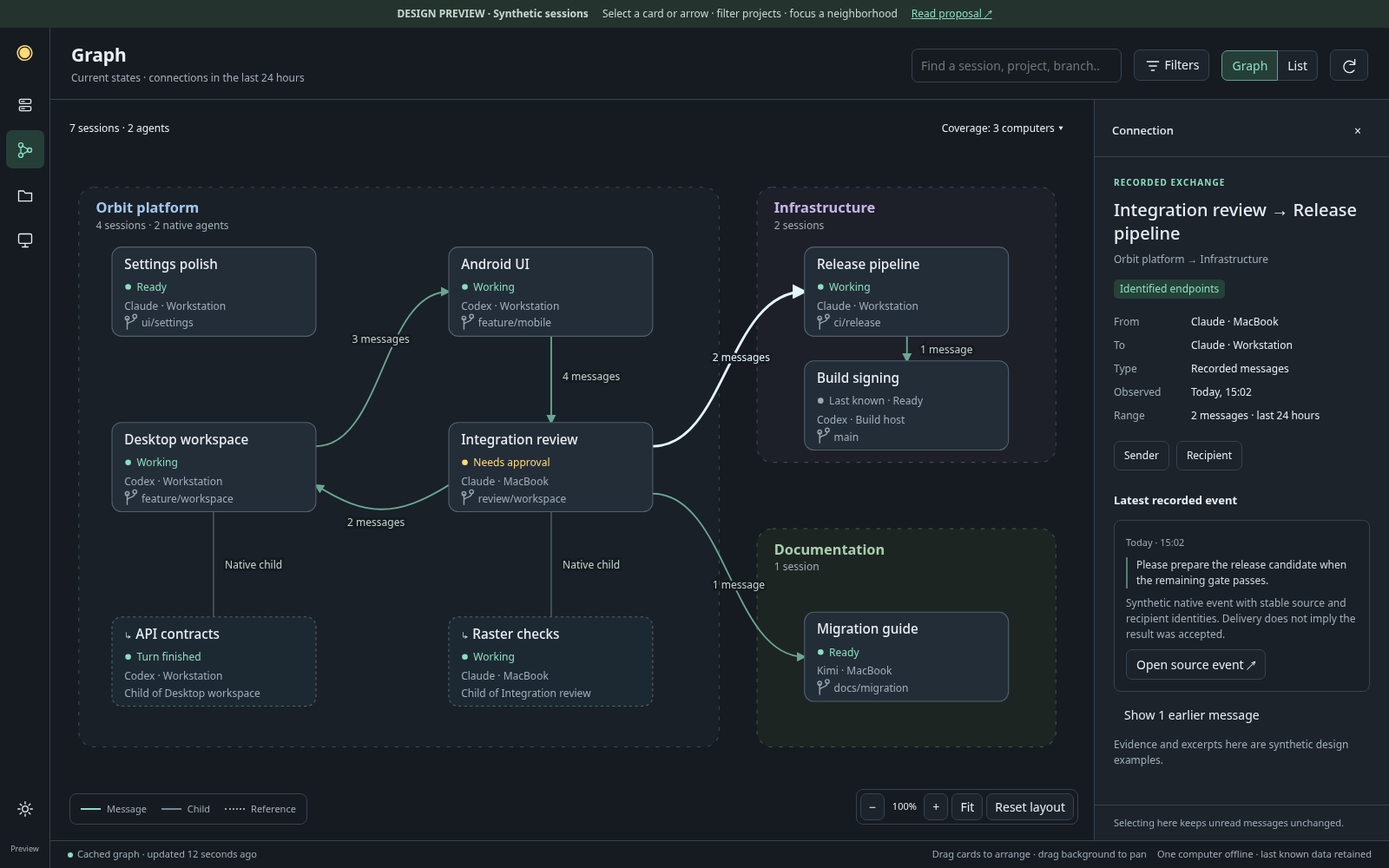
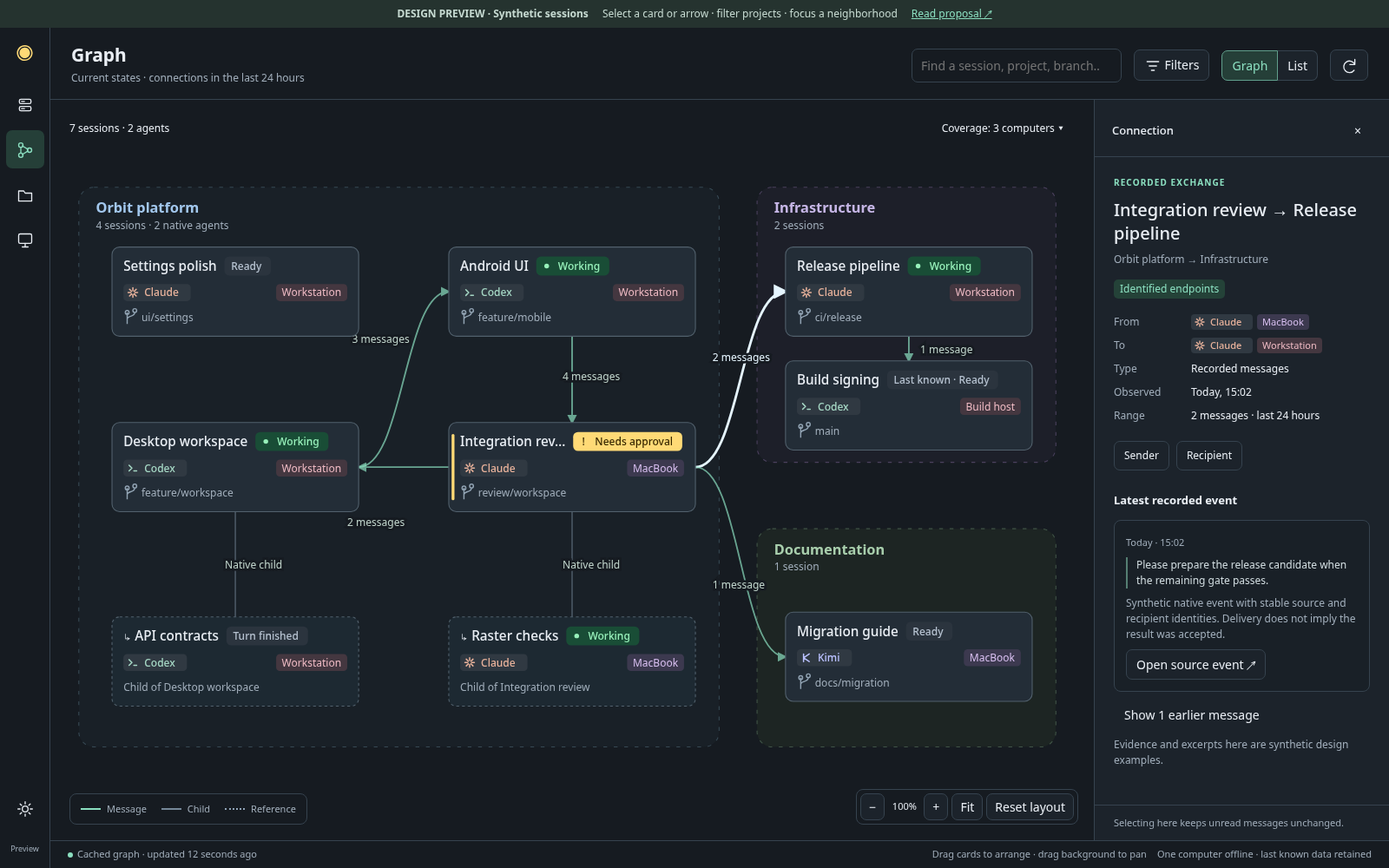
Align graph preview badges with the Sessions visual language

diff --git a/design/session-graph/index.html b/design/session-graph/index.html
@@ -12,6 +12,13 @@
 .inspector{width:340px;flex-shrink:0;border-left:1px solid var(--stroke);background:var(--panel);display:flex;flex-direction:column}.inspector-head{padding:18px 20px 12px;border-bottom:1px solid var(--stroke);display:flex;gap:8px;align-items:center}.inspector-head strong{font-size:13px;font-weight:500}.inspector-body{padding:22px;overflow:auto;flex:1}.eyebrow{font-size:10px;letter-spacing:.11em;color:var(--mint);font-weight:650;text-transform:uppercase}.inspector h2{font-size:20px;line-height:1.35;margin:10px 0 5px;font-weight:550;overflow-wrap:anywhere}.inspector h3{font-size:13px;font-weight:600;margin:25px 0 12px}.inspector p{margin:8px 0 13px}.identity{margin:18px 0 20px;display:grid;grid-template-columns:80px 1fr;gap:9px;font-size:12px}.identity dt{color:var(--muted)}.identity dd{margin:0;overflow-wrap:anywhere}.actions{display:flex;gap:8px;flex-wrap:wrap}.actions button{font-size:12px}.evidence{border:1px solid var(--stroke);border-radius:8px;padding:13px;margin:9px 0;background:#192027}.evidence time{color:var(--muted);font-size:11px}.evidence p{font-size:12px;margin:8px 0}.evidence .quote{border-left:2px solid #557f73;padding-left:10px;color:#d0dbdf}.relation{display:block;text-align:left;width:100%;margin:6px 0;font-size:12px}.relation small{display:block;color:var(--muted);margin-top:3px}.inspector-footer{padding:12px 22px;border-top:1px solid var(--stroke);color:var(--muted);font-size:11px}.statusbar{min-height:32px;border-top:1px solid var(--stroke);padding:6px 20px;display:flex;align-items:center;gap:12px;font-size:11px;color:var(--muted)}.status-dot{width:6px;height:6px;border-radius:50%;display:inline-block;background:var(--mint);margin-right:5px}.toast{position:absolute;bottom:78px;left:50%;transform:translateX(-50%);z-index:5;padding:13px 20px;border:1px solid #7bac99;border-radius:10px;background:#263c33;max-width:90%;box-shadow:0 8px 40px #0006;font-size:13px}.listing{position:absolute;inset:54px 22px 76px;overflow:auto;background:var(--bg);border:1px solid var(--stroke);border-radius:9px}.listrow{display:grid;grid-template-columns:minmax(150px,1fr) 140px 100px 110px;gap:16px;text-align:left;width:100%;border-radius:0;border:0;border-bottom:1px solid var(--stroke);padding:15px}.listrow span{font-size:12px;color:var(--muted)}.listrow strong{font-weight:500}.coverage{position:absolute;top:12px;right:20px;width:310px;padding:18px;background:var(--panel);border:1px solid var(--stroke);border-radius:9px;z-index:3;box-shadow:0 10px 30px #0006}.coverage p{font-size:12px;margin:10px 0}.coverage h3{font-size:14px;margin:0 0 15px}.coverage button{margin-top:8px}.spinner{display:inline-block;width:11px;height:11px;border:2px solid #ffda7655;border-top-color:var(--amber);border-radius:50%;animation:spin 1s linear infinite;vertical-align:middle;margin-right:5px}@keyframes spin{to{transform:rotate(360deg)}}
 @media(max-width:1100px){.inspector{position:absolute;right:0;top:0;bottom:0;box-shadow:-10px 0 35px #0005;z-index:3}.header{gap:10px;padding:15px}.heading{flex:1}.heading p{max-width:300px}.search{width:190px}.legend{gap:9px}.freshness{display:none}}@media(max-width:650px){.app{grid-template-columns:48px 1fr}.rail>button{width:38px}.demo{font-size:10px;justify-content:space-between}.demo .extra{display:none}.header{padding:13px 12px}.heading p{font-size:10px}.search{width:100%;order:5}.header>.spacer{display:none}.inspector{width:min(340px,100%)}.statusbar{padding:6px 10px;flex-wrap:wrap}.statusbar .extra{display:none}.canvas-top{left:12px;right:12px}.legend{left:10px;bottom:65px}.zoom{right:10px;bottom:12px}.listrow{grid-template-columns:1fr 85px;gap:5px;padding:12px}.filters{padding:12px;gap:12px}.filters label{width:100%;justify-content:space-between}.filterchips{padding:6px 12px}}@media(prefers-reduced-motion:reduce){.spinner{animation:none}}
 </style>
+<style>
+/* Mirror the existing native badge components; the Qt graph reuses their painters. */
+.session-badges{display:flex;align-items:center;gap:8px;flex-wrap:wrap}.session-badges svg{flex:none;overflow:visible}
+.identity-label text{font:11px system-ui,sans-serif}.identity-label.provider text,.identity-label.state text{font-weight:500}
+.node.selected .body{stroke:#8295a9;fill:#303b47}.listrow{grid-template-columns:minmax(170px,1fr) 140px auto;align-items:center}.listrow .session-badges{grid-column:1/-1}.inspector .session-badges{margin:12px 0 16px}.identity .session-badges{margin:0;gap:5px}
+@media(max-width:650px){.listrow{grid-template-columns:1fr}.listrow .session-badges{grid-column:auto}}
+</style>
 </head>
 <body>
 <svg width="0" height="0" style="position:absolute" aria-hidden="true"><defs>
@@ -57,9 +64,9 @@ const nodes=[
  {id:'review',name:'Integration review',project:'orbit',machine:'MacBook',provider:'Claude',branch:'review/workspace',state:'attention',status:'Needs approval',x:420,y:330,description:'Review the combined changes. A recorded native permission request is pending.'},
  {id:'api',name:'API contracts',project:'orbit',machine:'Workstation',provider:'Codex',branch:'Child of Desktop workspace',state:'ready',status:'Turn finished',x:65,y:535,child:true,description:'A native child with a recorded completed turn. Task completion is not inferred.'},
  {id:'raster',name:'Raster checks',project:'orbit',machine:'MacBook',provider:'Claude',branch:'Child of Integration review',state:'working',status:'Working',x:420,y:535,child:true,description:'Verify large text and keyboard navigation in a private fixture.'},
- {id:'release',name:'Release pipeline',project:'infra',machine:'Workstation',provider:'Claude',branch:'ci/release',state:'working',status:'Working',x:795,y:145,description:'Coordinate the release jobs using the exact reviewed source candidate.'},
- {id:'signing',name:'Build signing',project:'infra',machine:'Build host',provider:'Codex',branch:'main',state:'offline',status:'Last known · Ready',x:795,y:265,description:'This computer is offline. Its last-known session and relationships are retained.'},
- {id:'guide',name:'Migration guide',project:'docs',machine:'MacBook',provider:'Kimi',branch:'docs/migration',state:'ready',status:'Ready',x:795,y:530,description:'Document the delivered interface and migration steps.'}
+ {id:'release',name:'Release pipeline',project:'infra',machine:'Workstation',provider:'Claude',branch:'ci/release',state:'working',status:'Working',x:775,y:145,description:'Coordinate the release jobs using the exact reviewed source candidate.'},
+ {id:'signing',name:'Build signing',project:'infra',machine:'Build host',provider:'Codex',branch:'main',state:'offline',status:'Last known · Ready',x:775,y:265,description:'This computer is offline. Its last-known session and relationships are retained.'},
+ {id:'guide',name:'Migration guide',project:'docs',machine:'MacBook',provider:'Kimi',branch:'docs/migration',state:'ready',status:'Ready',x:775,y:530,description:'Document the delivered interface and migration steps.'}
 ];
 const edges=[
  {id:'e1',from:'main',to:'android',type:'message',count:3,label:'3 messages',note:'Implementation scope and integration constraints.',time:'14:42',points:'M 280 355 C 350 355 350 192 420 192',labelX:318,labelY:246},
@@ -87,10 +94,38 @@ function computeVisible(){
  if(focus){const near=new Set([focus]);edges.filter(e=>e.type!=='reference'||$('references').checked).forEach(e=>{if(e.from===focus)near.add(e.to);if(e.to===focus)near.add(e.from);});visible=new Set([...visible].filter(id=>near.has(id)));}
  return base;
 }
+// Same dark-theme colors, glyphs and dimensions as IdentityBadge/SessionStatusBadge.
+const measure=document.createElement('canvas').getContext('2d');
+function textWidth(text,size=11,weight=400){measure.font=`${weight} ${size}px system-ui`;return measure.measureText(text).width;}
+function clipped(text,width,size=11,weight=400){if(textWidth(text,size,weight)<=width)return text;while(text.length&&textWidth(text+'…',size,weight)>width)text=text.slice(0,-1);return text+'…';}
+function machinePalette(name){
+ let hash=2166136261;for(const byte of new TextEncoder().encode(name))hash=Math.imul(hash^byte,16777619)>>>0;
+ const color=['#5fbfa5','#8ea9f4','#c098e6','#e7ae66','#e38f9e','#75bfcf','#acc577'][(((hash>>>16)^hash)>>>0)%7];
+ const rgb=(color||'#5fbfa5').match(/[a-f0-9]{2}/gi).map(x=>parseInt(x,16));
+ const blend=(other,k)=>'#'+rgb.map((v,i)=>Math.round(v*(1-k)+other[i]*k).toString(16).padStart(2,'0')).join('');
+ return {fg:blend([255,255,255],.38),bg:blend([23,30,37],.78)};
+}
+function badge(kind,value,state='ready'){
+ const special=kind==='state'&&['working','attention'].includes(state),inset=kind==='provider'?22:special?23:kind==='machine'?6:7;
+ const width=Math.ceil(textWidth(value,11,kind==='machine'?400:500))+(kind==='provider'?34:kind==='machine'?12:16+(special?16:0));
+ const height=kind==='state'?20:18;
+ let colors=kind==='machine'?machinePalette(value):kind==='provider'?{bg:'#303942',fg:value==='Claude'?'#e8b29b':value==='Kimi'?'#bac1ff':'#a6d8c5'}:
+  state==='working'?{bg:'#194d36',fg:'#97f0ba'}:state==='attention'?{bg:'#ffda76',fg:'#392900'}:{bg:'#2b343e',fg:'#b6c2d0'};
+ const g=el('g',{class:`identity-label ${kind}`,'data-kind':kind,'data-width':width,'data-height':height});
+ g.append(el('rect',{width,height,rx:kind==='state'?5:4,fill:colors.bg}));
+ if(kind==='provider'){
+  const icon=el('g',{transform:`translate(10 ${height/2})`,fill:'none',stroke:colors.fg,'stroke-width':1.4,'stroke-linecap':'round','stroke-linejoin':'round'});
+  if(value==='Claude')for(let i=0;i<8;i++)icon.append(el('path',{d:'M0 2V5',transform:`rotate(${i*45})`}));
+  else icon.append(el('path',{d:value==='Kimi'?'M-3 -4V4M-3 0L3 -4M-3 0L3 4':'M-4 -3L-1 0L-4 3M1 3H4'}));
+  g.append(icon);
+ }else if(special)g.append(state==='working'?el('circle',{cx:11,cy:10,r:2.5,fill:colors.fg}):el('text',{x:11,y:14,'text-anchor':'middle',fill:colors.fg,'font-weight':700},'!'));
+ g.append(el('text',{x:inset,y:height/2+4,fill:colors.fg},value));return g;
+}
+function htmlBadge(kind,value,state){const b=badge(kind,value,state),svg=el('svg',{width:b.dataset.width,height:b.dataset.height,'aria-label':value});svg.append(b);return svg;}
+function identityRow(n,includeStatus=true){const row=plain('div','session-badges');if(includeStatus)row.append(htmlBadge('state',n.status,n.state));row.append(htmlBadge('provider',n.provider),htmlBadge('machine',n.machine));return row;}
 function pathFor(e){
  const a=byId(e.from),b=byId(e.to),pa=positions[a.id],pb=positions[b.id];
- if(a.x===pa.x&&a.y===pa.y&&b.x===pb.x&&b.y===pb.y)return e.points;
- const w=215,h=94;let sx,sy,tx,ty;
+ const w=260,h=94;let sx,sy,tx,ty;
  if(Math.abs((pb.x-pa.x))<100){sx=pa.x+w/2;sy=pa.y+(pb.y>pa.y?h:0);tx=pb.x+w/2;ty=pb.y+(pb.y>pa.y?0:h);return `M${sx} ${sy} C${sx} ${(sy+ty)/2} ${tx} ${(sy+ty)/2} ${tx} ${ty}`;}
  sx=pa.x+(pb.x>pa.x?w:0);sy=pa.y+h/2;tx=pb.x+(pb.x>pa.x?0:w);ty=pb.y+h/2;return `M${sx} ${sy} C${(sx+tx)/2} ${sy} ${(sx+tx)/2} ${ty} ${tx} ${ty}`;
 }
@@ -98,7 +133,19 @@ function render(){
  const base=computeVisible();$('nodes').replaceChildren();$('edges').replaceChildren();$('groups').replaceChildren();
  for(const g of groups){const members=nodes.filter(n=>n.project===g.id&&visible.has(n.id));if(!members.length)continue;$('groups').append(el('rect',{x:g.x,y:g.y,width:g.w,height:g.h,rx:16,class:`group ${g.id}`}));$('groups').append(el('text',{x:g.x+18,y:g.y+27,class:`group-label ${g.id}`},g.title));$('groups').append(el('text',{x:g.x+18,y:g.y+44,class:'group-meta'},`${members.filter(n=>!n.child).length} ${members.filter(n=>!n.child).length===1?'session':'sessions'}${members.some(n=>n.child)?` · ${members.filter(n=>n.child).length} native agents`:''}`));}
  for(const e of edges){if(!visible.has(e.from)||!visible.has(e.to)||(e.type==='reference'&&!$('references').checked))continue;const chosen=selected?.type==='edge'&&selected.id===e.id,d=pathFor(e);$('edges').append(el('path',{d,class:`edge ${e.type} ${chosen?'selected':''}`,'marker-end':e.type==='parent'?'':`url(#${chosen?'selectedArrow':'arrow'})`}));const hit=el('path',{d,class:'edge-hit','data-edge-id':e.id,tabindex:0,role:'button','aria-label':`${byId(e.from).name} to ${byId(e.to).name}, ${relationName(e)}, ${e.count||''}`});hit.onclick=()=>choose('edge',e.id);hit.onkeydown=k=>{if(k.key==='Enter'||k.key===' '){k.preventDefault();choose('edge',e.id);}};$('edges').append(hit);if(positions[e.from].x===byId(e.from).x&&positions[e.from].y===byId(e.from).y&&positions[e.to].x===byId(e.to).x&&positions[e.to].y===byId(e.to).y)$('edges').append(el('text',{x:e.labelX,y:e.labelY,class:`edge-label ${chosen?'selected':''}`},e.label));}
- for(const n of nodes){if(!visible.has(n.id))continue;const p=positions[n.id],g=el('g',{transform:`translate(${p.x} ${p.y})`,class:`node ${n.child?'child':''} ${selected?.type==='node'&&selected.id===n.id?'selected':''}`,tabindex:0,role:'button','aria-label':`${n.name}, ${projectName(n.project)}, ${n.machine}, ${n.status}`,'data-id':n.id});g.append(el('rect',{width:215,height:94,rx:10,class:'body'}));g.append(el('text',{x:13,y:23,class:'title'},(n.child?'↳ ':'')+n.name));g.append(el('circle',{cx:17,cy:42,r:3,fill:n.state==='attention'?'#ffda76':n.state==='offline'?'#9aabb8':'#8bdfc0'}));g.append(el('text',{x:26,y:46,class:`status ${n.state==='attention'?'amber':n.state==='offline'?'neutral':''}`},n.status));g.append(el('text',{x:13,y:66,class:'meta'},`${n.provider} · ${n.machine}`));if(!n.child)g.append(el('path',{d:'M16 75v12M16 82c0-4 8-2 8-7m-10 0a2 2 0 1 0 4 0a2 2 0 1 0-4 0m8-2a2 2 0 1 0 4 0a2 2 0 1 0-4 0',class:'branch'}));g.append(el('text',{x:n.child?13:31,y:84,class:'meta'},n.branch));g.append(el('title',{},`${n.name}\n${projectName(n.project)} · ${n.machine}\n${n.description}`));g.onclick=()=>{if(!drag?.moved)choose('node',n.id)};g.onkeydown=e=>{if(e.key==='Enter'||e.key===' '){e.preventDefault();choose('node',n.id);}};$('nodes').append(g);}
+ for(const n of nodes){
+  if(!visible.has(n.id))continue;
+  const p=positions[n.id],g=el('g',{transform:`translate(${p.x} ${p.y})`,class:`node ${n.child?'child':''} ${selected?.type==='node'&&selected.id===n.id?'selected':''}`,tabindex:0,role:'button','aria-label':`${n.name}, ${n.provider}, ${projectName(n.project)}, ${n.machine}, ${n.status}`,'data-id':n.id});
+  g.append(el('rect',{width:260,height:94,rx:8,class:'body'}));
+  const status=badge('state',n.status,n.state),statusWidth=Number(status.dataset.width),title=clipped((n.child?'↳ ':'')+n.name,236-statusWidth-8,14,550);
+  g.append(el('text',{x:12,y:25,class:'title'},title));status.setAttribute('transform',`translate(${12+textWidth(title,14,550)+8} 10)`);g.append(status);
+  const provider=badge('provider',n.provider),machine=badge('machine',n.machine);provider.setAttribute('transform','translate(12 39)');machine.setAttribute('transform',`translate(${248-Number(machine.dataset.width)} 39)`);g.append(provider,machine);
+  if(n.state==='attention')g.append(el('rect',{x:3,y:12,width:3,height:70,rx:1.5,fill:'#ffda76'}));
+  if(!n.child)g.append(el('path',{d:'M16 69v12M16 76c0-4 8-2 8-7m-10 0a2 2 0 1 0 4 0a2 2 0 1 0-4 0m8-2a2 2 0 1 0 4 0a2 2 0 1 0-4 0',class:'branch'}));
+  g.append(el('text',{x:n.child?12:31,y:78,class:'meta'},clipped(n.branch,n.child?236:217)));
+  g.append(el('title',{},`${n.name}\n${n.status} · ${n.provider}\n${projectName(n.project)} · ${n.machine}\n${n.branch}\n${n.description}`));
+  g.onclick=()=>{if(!drag?.moved)choose('node',n.id)};g.onkeydown=e=>{if(e.key==='Enter'||e.key===' '){e.preventDefault();choose('node',n.id);}};$('nodes').append(g);
+ }
  const roots=[...visible].filter(id=>!byId(id).child).length,children=visible.size-roots,outs=[...visible].filter(id=>!base.has(id)).length;$('counts').textContent=`${roots} sessions · ${children} agents${outs?` · ${outs} outside scope`:''}`;$('empty').hidden=!!visible.size;$('unfocus').hidden=!focus;
  const chips=[];if($('project').value!=='all')chips.push(projectName($('project').value));if($('state').value!=='all')chips.push($('state').selectedOptions[0].text);if($('references').checked)chips.push('References');$('filterchips').hidden=!chips.length;$('chiptext').textContent=chips.join(' · ');
  if(selected){const item=selected.type==='node'?null:edges.find(e=>e.id===selected.id);const inside=selected.type==='node'?visible.has(selected.id):(visible.has(item.from)&&visible.has(item.to)&&(item.type!=='reference'||$('references').checked));document.querySelector('.inspector-footer').textContent=inside?'Selecting here keeps unread messages unchanged.':'This selection is outside the current filter. Clear filters to reveal it.';}renderList();applyCamera();
@@ -108,14 +155,14 @@ function action(text,callback,cls=''){const b=plain('button',cls,text);b.onclick
 function renderInspector(){
  const body=$('inspectorBody');body.replaceChildren();if(!selected)return;
  const title=(eyebrow,name,subtitle)=>{body.append(plain('div','eyebrow',eyebrow),plain('h2','',name),plain('p','muted small',subtitle));};
- const details=pairs=>{const dl=plain('dl','identity');for(const [k,v]of pairs){dl.append(plain('dt','',k),plain('dd','',v));}body.append(dl);};
+ const details=pairs=>{const dl=plain('dl','identity');for(const [k,v]of pairs){const dd=plain('dd','');dd.append(v instanceof Node?v:document.createTextNode(v));dl.append(plain('dt','',k),dd);}body.append(dl);};
  if(selected.type==='node'){
- const n=byId(selected.id);$('inspectorKind').textContent=n.child?'Native agent':'Session';title(n.child?'Native agent':'Session',n.name,`${n.provider} · ${n.machine}`);body.append(plain('span',`pill ${n.state==='attention'?'amber':'mint'}`,n.status));details([['Project',projectName(n.project)],['Branch',n.child?'Uses parent working folder':n.branch],['Observed',n.state==='offline'?'18 minutes ago · last known':'12 seconds ago'],['Identity',`Synthetic conversation · ${n.id}`]]);body.append(plain('p','small',n.description));const actions=plain('div','actions');actions.append(action('Open Activity ↗',()=>toast(`Preview: open the exact ${n.name} Activity. No live session is accessed.`),'primary'),action('Focus connections',()=>{focus=n.id;render();}));body.append(actions);const related=edges.filter(e=>(e.from===n.id||e.to===n.id)&&(e.type!=='reference'||$('references').checked));body.append(plain('h3','',`Connections · ${related.length}`));if(!related.length)body.append(plain('p','muted small','No recorded connections in this time range. This session is still part of the fleet.'));for(const e of related){const b=action(`${e.from===n.id?'→':'←'} ${byId(e.from===n.id?e.to:e.from).name}`,()=>choose('edge',e.id),'relation');b.append(plain('small','',`${relationName(e)}${e.count?` · ${e.count} in the last 24 hours`:''}`));body.append(b);}
+ const n=byId(selected.id);$('inspectorKind').textContent=n.child?'Native agent':'Session';title(n.child?'Native agent':'Session',n.name,projectName(n.project));body.append(identityRow(n));details([['Project',projectName(n.project)],['Branch',n.child?'Uses parent working folder':n.branch],['Observed',n.state==='offline'?'18 minutes ago · last known':'12 seconds ago'],['Identity',`Synthetic conversation · ${n.id}`]]);body.append(plain('p','small',n.description));const actions=plain('div','actions');actions.append(action('Open Activity ↗',()=>toast(`Preview: open the exact ${n.name} Activity. No live session is accessed.`),'primary'),action('Focus connections',()=>{focus=n.id;render();}));body.append(actions);const related=edges.filter(e=>(e.from===n.id||e.to===n.id)&&(e.type!=='reference'||$('references').checked));body.append(plain('h3','',`Connections · ${related.length}`));if(!related.length)body.append(plain('p','muted small','No recorded connections in this time range. This session is still part of the fleet.'));for(const e of related){const b=action(`${e.from===n.id?'→':'←'} ${byId(e.from===n.id?e.to:e.from).name}`,()=>choose('edge',e.id),'relation');b.append(plain('small','',`${relationName(e)}${e.count?` · ${e.count} in the last 24 hours`:''}`));body.append(b);}
  }else{
- const e=edges.find(e=>e.id===selected.id),a=byId(e.from),b=byId(e.to);$('inspectorKind').textContent='Connection';title(e.type==='message'?'Recorded exchange':relationName(e),`${a.name} → ${b.name}`,a.project===b.project?projectName(a.project):`${projectName(a.project)} → ${projectName(b.project)}`);body.append(plain('span','pill mint',e.type==='reference'?'Exact reference · not a delivery':'Identified endpoints'));details([['From',`${a.provider} · ${a.machine}`],['To',`${b.provider} · ${b.machine}`],['Type',relationName(e)],['Observed',`Today, ${e.time}`],['Range',e.count?`${e.count} messages · last 24 hours`:'Persistent relationship']]);const actions=plain('div','actions');actions.append(action('Sender',()=>choose('node',a.id)),action('Recipient',()=>choose('node',b.id)));body.append(actions);body.append(plain('h3','',e.type==='message'?'Latest recorded event':'Evidence'));const ev=plain('article','evidence');ev.append(plain('time','',`Today · ${e.time}`),plain('p','quote',e.note),plain('p','muted small',e.type==='message'?'Synthetic native event with stable source and recipient identities. Delivery does not imply the result was accepted.':e.type==='parent'?'Provider-reported parent/child identity. A finished turn does not prove the task is complete.':'A reference is context, not proof of communication.'));ev.append(action('Open source event ↗',()=>toast('Preview: seek the exact source event in Activity. No read marker is changed by this preview.')));body.append(ev);if(e.count>1){body.append(action(`Show ${e.count-1} earlier message${e.count>2?'s':''}`,()=>{body.append(plain('p','muted small','Preview: earlier events are paginated here, retaining their exact source identities.'));},'quiet'));}body.append(plain('p','muted small','Evidence and excerpts here are synthetic design examples.'));
+ const e=edges.find(e=>e.id===selected.id),a=byId(e.from),b=byId(e.to);$('inspectorKind').textContent='Connection';title(e.type==='message'?'Recorded exchange':relationName(e),`${a.name} → ${b.name}`,a.project===b.project?projectName(a.project):`${projectName(a.project)} → ${projectName(b.project)}`);body.append(plain('span','pill mint',e.type==='reference'?'Exact reference · not a delivery':'Identified endpoints'));details([['From',identityRow(a,false)],['To',identityRow(b,false)],['Type',relationName(e)],['Observed',`Today, ${e.time}`],['Range',e.count?`${e.count} messages · last 24 hours`:'Persistent relationship']]);const actions=plain('div','actions');actions.append(action('Sender',()=>choose('node',a.id)),action('Recipient',()=>choose('node',b.id)));body.append(actions);body.append(plain('h3','',e.type==='message'?'Latest recorded event':'Evidence'));const ev=plain('article','evidence');ev.append(plain('time','',`Today · ${e.time}`),plain('p','quote',e.note),plain('p','muted small',e.type==='message'?'Synthetic native event with stable source and recipient identities. Delivery does not imply the result was accepted.':e.type==='parent'?'Provider-reported parent/child identity. A finished turn does not prove the task is complete.':'A reference is context, not proof of communication.'));ev.append(action('Open source event ↗',()=>toast('Preview: seek the exact source event in Activity. No read marker is changed by this preview.')));body.append(ev);if(e.count>1){body.append(action(`Show ${e.count-1} earlier message${e.count>2?'s':''}`,()=>{body.append(plain('p','muted small','Preview: earlier events are paginated here, retaining their exact source identities.'));},'quiet'));}body.append(plain('p','muted small','Evidence and excerpts here are synthetic design examples.'));
  }
 }
-function renderList(){const list=$('listing');list.replaceChildren();for(const n of nodes){if(!visible.has(n.id))continue;const b=action('',()=>choose('node',n.id),'listrow');b.append(plain('strong','',n.name),plain('span','',projectName(n.project)),plain('span','',n.machine),plain('span','',n.status));list.append(b);}}
+function renderList(){const list=$('listing');list.replaceChildren();for(const n of nodes){if(!visible.has(n.id))continue;const b=action('',()=>choose('node',n.id),'listrow');b.append(plain('strong','',n.name),plain('span','',projectName(n.project)),htmlBadge('state',n.status,n.state),identityRow(n,false));list.append(b);}}
 function applyCamera(){$('graph').setAttribute('viewBox',`${camera.x} ${camera.y} ${camera.w} ${camera.h}`);$('zoomLevel').value=`${Math.round(1100/camera.w*100)}%`;}
 function zoom(factor){const nw=Math.min(2200,Math.max(420,camera.w*factor)),nh=nw*760/1100;camera.x+=(camera.w-nw)/2;camera.y+=(camera.h-nh)/2;camera.w=nw;camera.h=nh;applyCamera();}
 function resetFilters(){$('project').value='all';$('state').value='all';$('external').checked=true;$('references').checked=false;$('search').value='';focus=null;render();}
@@ -134,6 +181,7 @@ $('graph').addEventListener('pointermove',e=>{if(!drag)return;if(Math.hypot(e.cl
 $('graph').addEventListener('pointerup',e=>{const current=drag;if(!current)return;$('graph').releasePointerCapture(e.pointerId);if(!current.moved&&current.id)choose('node',current.id);setTimeout(()=>{drag=null},0)});
 $('graph').addEventListener('pointercancel',()=>{drag=null});
 $('graph').addEventListener('wheel',e=>{if(e.ctrlKey||e.metaKey){e.preventDefault();zoom(e.deltaY>0?1.08:.92)}},{passive:false});
+document.querySelectorAll('.coverage p strong').forEach(label=>label.replaceWith(htmlBadge('machine',label.textContent)));
 render();renderInspector();if(window.innerWidth<1100)$('inspector').hidden=true;
 </script>
 </body>

diff --git a/docs/superpowers/specs/2026-10-15-session-agent-graph-design.md b/docs/superpowers/specs/2026-10-15-session-agent-graph-design.md
@@ -1,6 +1,6 @@
 # Session and agent graph
 
-Date: 2026-10-15. Status: proposed product and technical design, not shipped.
+Date: 2026-10-15. Status: owner-approved implementation in progress, not shipped.
 Design task: zerus-4rkz. Source audit: `669101d2`.
 Interactive, synthetic preview: [Graph workspace](../../../design/session-graph/index.html).
 
@@ -99,10 +99,21 @@ unloaded groups have visible counts or `unknown`, with a path to expand them.
 
 ### Nodes
 
+Owner clarification, 2026-10-15: Graph must use the same visual language as the
+ordinary Sessions list. Status, provider and computer are the existing badges,
+not plain combined text or a new graph-specific set of colors and symbols.
+The native implementation must reuse `SessionStatusBadge`, `IdentityBadges`
+and `MachineAppearance`, including configured computer colors and vivid mode.
+Use the same title, branch icon, selection surface and attention priority as
+`SessionCardDelegate`; keep the machine and provider independently identifiable
+in the canvas, list and inspector. Canvas scale may change how much text fits,
+but must not change the meaning or styling of a status. The HTML preview mirrors
+these components; the shipped Qt view uses the actual shared paint functions.
+
 Use small readable cards, not anonymous dots. At normal zoom a card has:
 
 - session title, with the native provider icon;
-- existing state text and a small state marker;
+- the existing status badge, including its normal state icon and colors;
 - project and computer context, plus a distinct branch icon before branch text;
 - a compact child count or attention badge where relevant.
 
